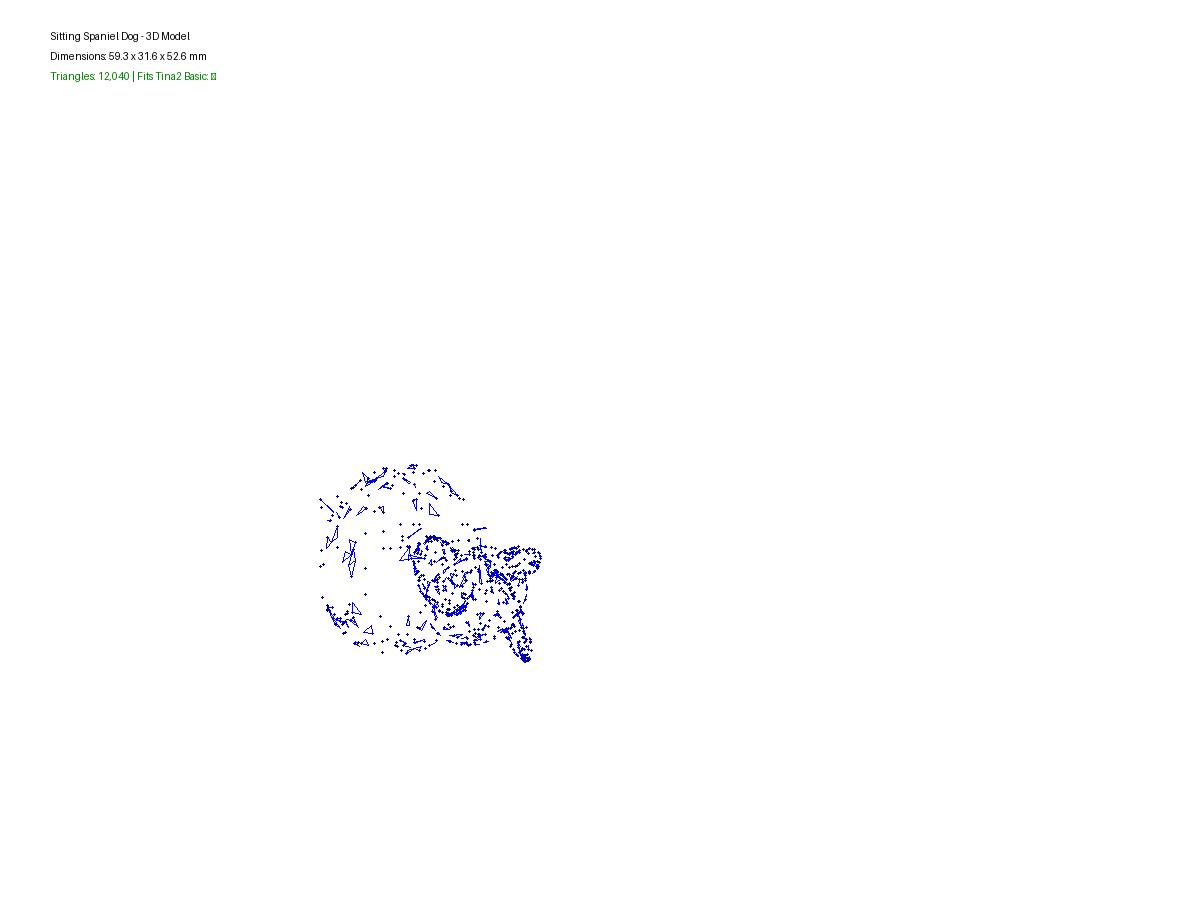
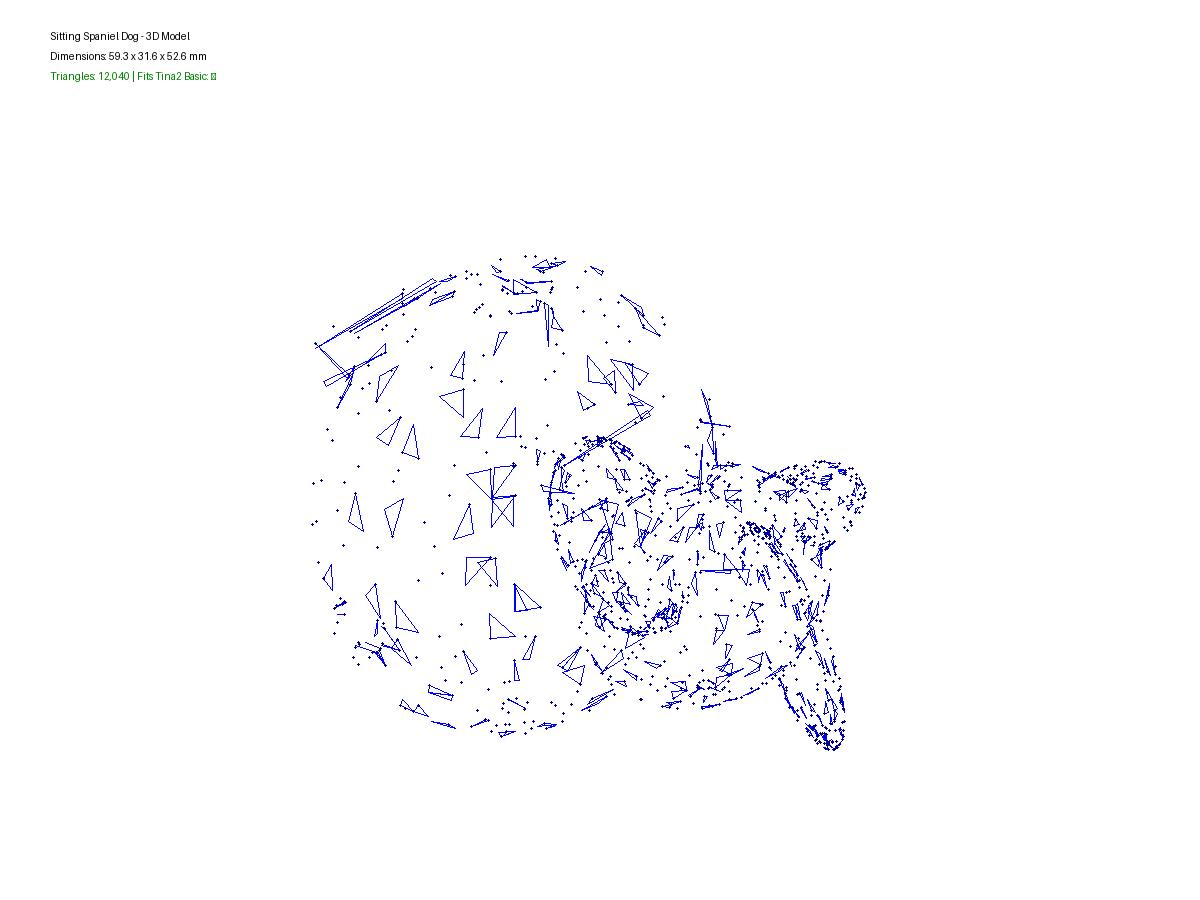
Fix STL render - center and scale dog properly

diff --git a/render-stl.py b/render-stl.py
@@ -1,6 +1,5 @@
 #!/usr/bin/env python3
-from PIL import Image, ImageDraw, ImageFont
-import struct
+from PIL import Image, ImageDraw
 import math
 
 def read_stl_ascii(filename):
@@ -12,38 +11,56 @@ def read_stl_ascii(filename):
                 vertices.append((float(parts[1]), float(parts[2]), float(parts[3])))
     return vertices
 
-def project_iso(x, y, z, scale=4, offset_x=400, offset_y=500):
-    angle = math.radians(30)
-    ix = (x - y) * math.cos(angle) * scale
-    iy = (x + y) * math.sin(angle) * scale - z * scale
-    return (offset_x + ix, offset_y - iy)
-
 # Read STL
 vertices = read_stl_ascii('models/dog-basic.stl')
+
+# Find center and bounds
+min_x = min(v[0] for v in vertices)
+max_x = max(v[0] for v in vertices)
+min_y = min(v[1] for v in vertices)
+max_y = max(v[1] for v in vertices)
+min_z = min(v[2] for v in vertices)
+max_z = max(v[2] for v in vertices)
+
+center_x = (min_x + max_x) / 2
+center_y = (min_y + max_y) / 2
+center_z = (min_z + max_z) / 2
 
 # Create image
 width, height = 1200, 900
 img = Image.new('RGB', (width, height), 'white')
 draw = ImageDraw.Draw(img)
 
+# Calculate scale to fit model
+model_size = max(max_x - min_x, max_y - min_y, max_z - min_z)
+scale = min(600 / model_size, 10)
+
+def project_iso(x, y, z):
+    # Center the model
+    x -= center_x
+    y -= center_y
+    z -= center_z
+    
+    angle = math.radians(30)
+    ix = (x - y) * math.cos(angle) * scale
+    iy = (x + y) * math.sin(angle) * scale - z * scale
+    return (width/2 + ix, height/2 - iy + 50)
+
 # Draw title
-draw.text((50, 30), "Sitting Spaniel Dog - 3D Model", fill='black', font=None)
+draw.text((50, 30), "Sitting Spaniel Dog - 3D Model", fill='black')
 draw.text((50, 50), "Dimensions: 59.3 x 31.6 x 52.6 mm", fill='black')
 draw.text((50, 70), "Triangles: 12,040 | Fits Tina2 Basic: ✓", fill='green')
 
-# Sample and draw vertices
-sample_rate = 50
-for i in range(0, len(vertices), sample_rate):
-    x, y, z = vertices[i]
-    px, py = project_iso(x, y, z)
-    if 0 <= px < width and 0 <= py < height:
-        draw.ellipse([px-1, py-1, px+1, py+1], fill='darkblue')
-
-# Draw wireframe edges (sample triangles)
+# Draw wireframe (sample triangles)
+sample_rate = 30
 for i in range(0, len(vertices)-2, sample_rate*3):
     pts = [project_iso(*vertices[i+j]) for j in range(3)]
-    if all(0 <= p[0] < width and 0 <= p[1] < height for p in pts):
-        draw.polygon(pts, outline='blue')
+    draw.polygon(pts, outline='blue', width=1)
+
+# Draw vertices for detail
+for i in range(0, len(vertices), sample_rate):
+    px, py = project_iso(*vertices[i])
+    draw.ellipse([px-1, py-1, px+1, py+1], fill='darkblue')
 
 img.save('models/dog-stl-render.jpg', 'JPEG')
 print("✓ STL render created: models/dog-stl-render.jpg")
